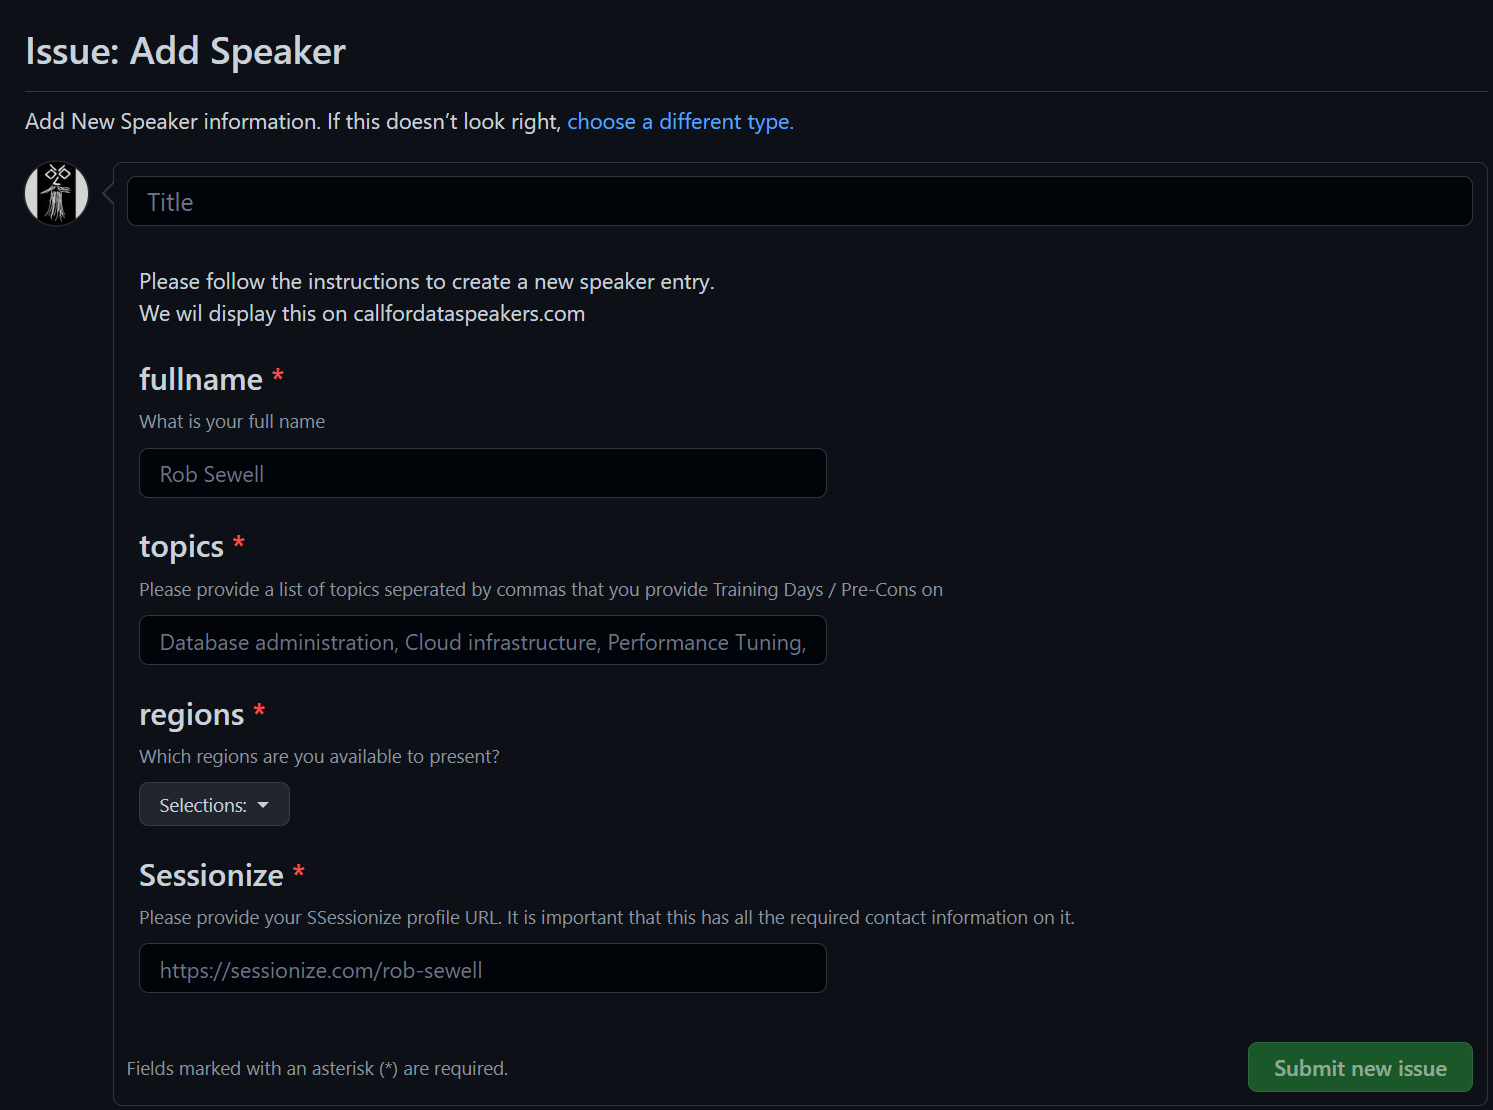
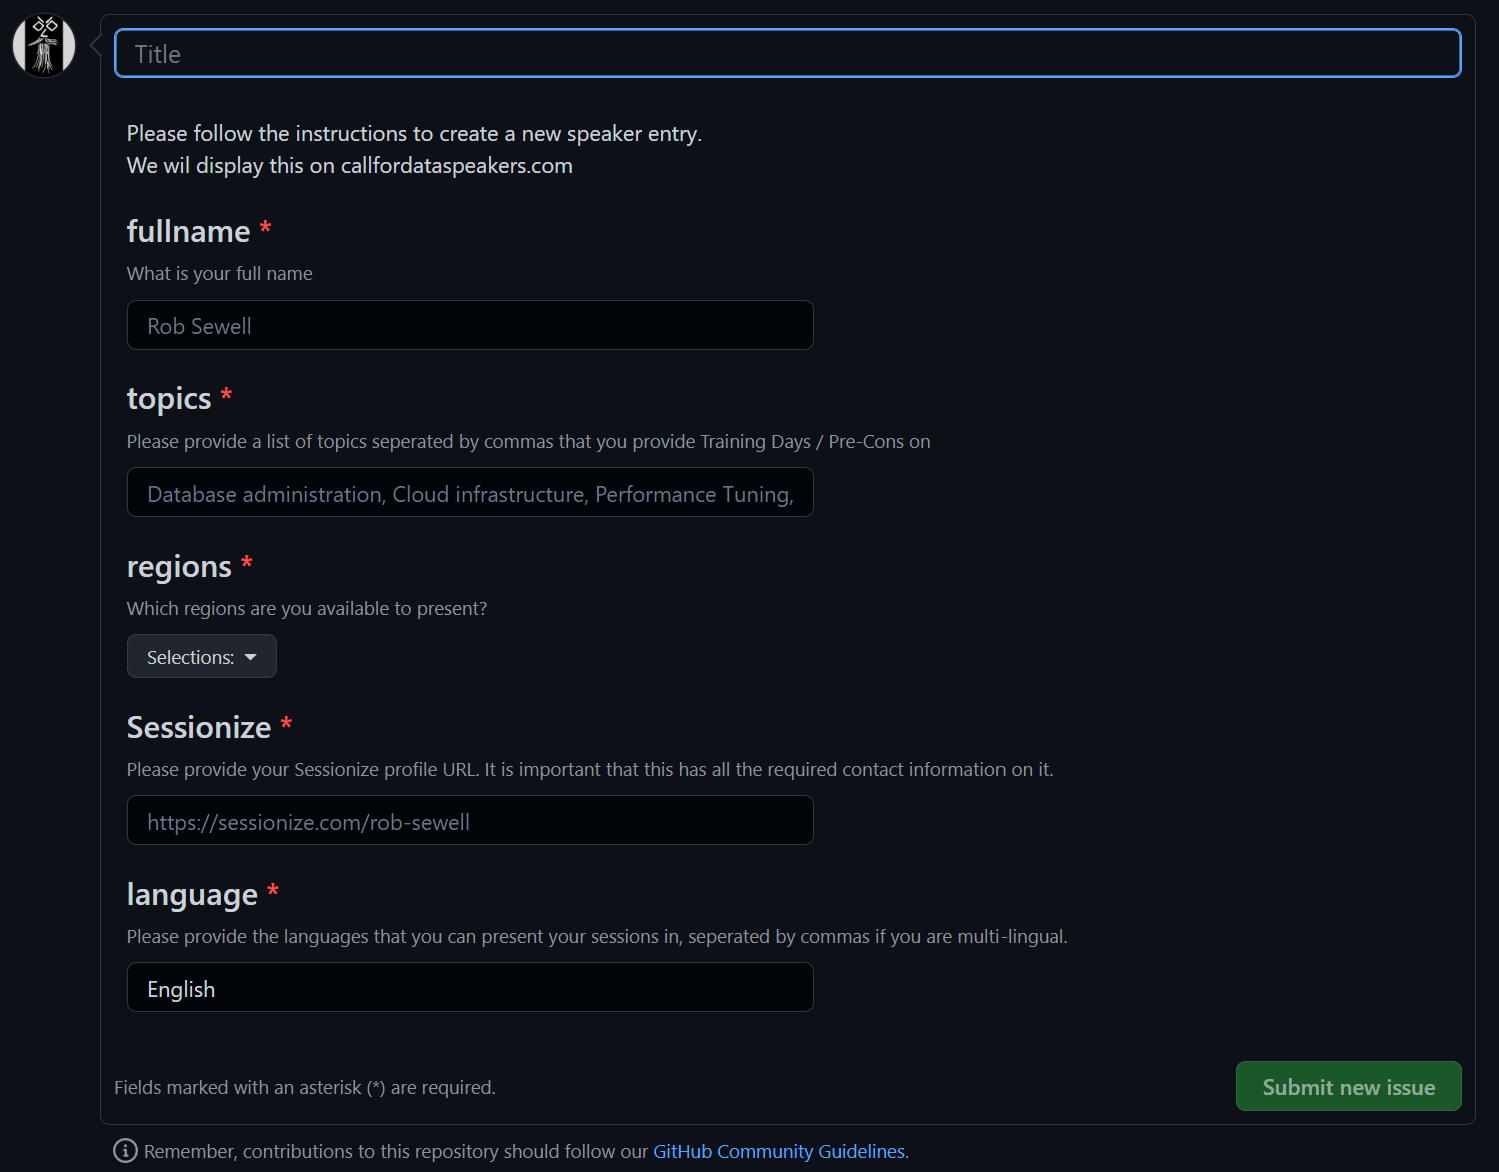
update readme with language information

Changed region(s): [[0.0, 0.0, 0.9859, 0.8883], [0.0616, 0.9189, 0.6162, 1.0], [0.8011, 0.8883, 0.9859, 1.0]]

diff --git a/README.md b/README.md
@@ -30,6 +30,7 @@ Fill in the details, the title can be anything that you like
     **Just topics** not session titles or descriptions, those will be in your sessionize profile then this does not need updating so frequently
 - regions that you would be willing to present training days or pre-cons in (these match the regions on callfordataspeakers.com)
 - Your sessionize profile URl which will show the event organisers the precise sessions that you have and also your contact details/methods
+- The languages that you can present in seperated by commas.
 
 Thats it, then press Submit new issue and the automation will do its thing
 
@@ -37,7 +38,10 @@ Thats it, then press Submit new issue and the automation will do its thing
 
 ## To remove yourself as a speaker
 
-Remove your speaker name.json file and ask for the website workflow to be run
+Delete your speaker name.json file and ask for the website workflow to be run
+## To edit your speaker information
+
+Either delete your speaker name.json file and then add a new issue or edit your speaker name.json file and ask for the website workflow to be run
 
 # How it works
 
